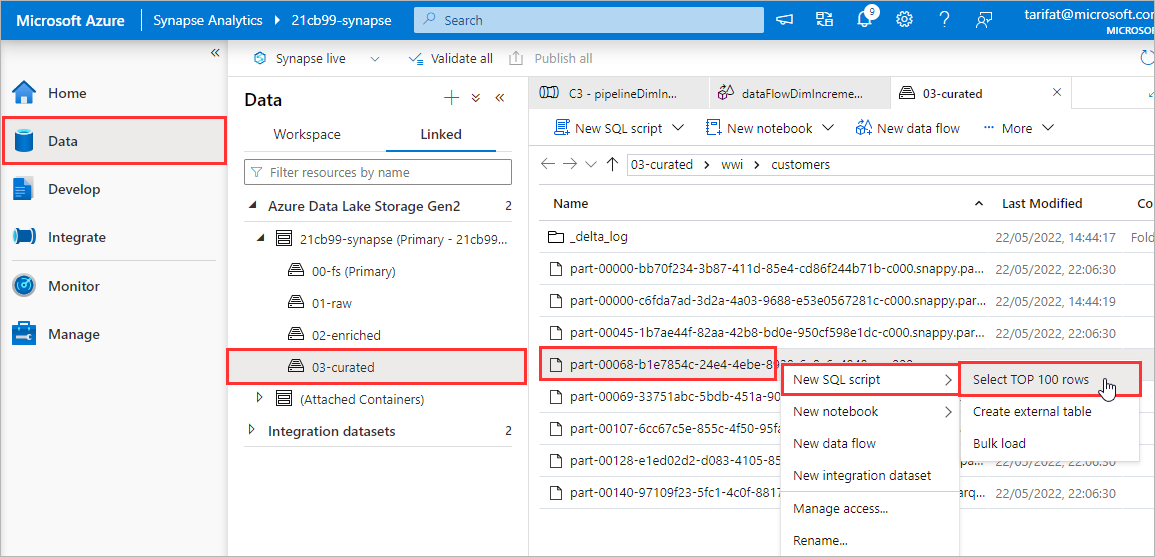
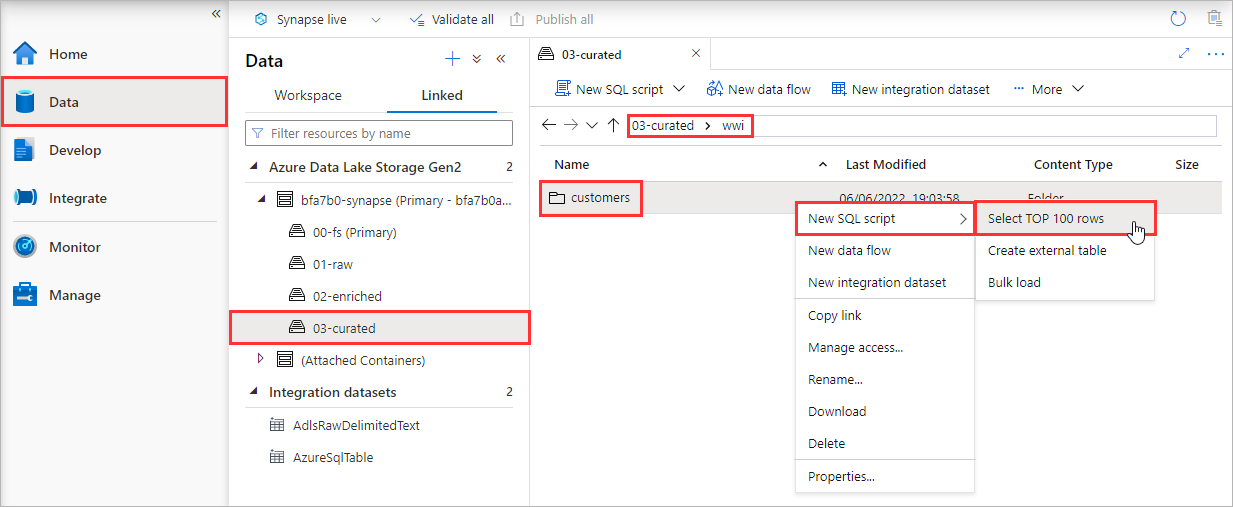
module01c

diff --git a/modules/module01c.md b/modules/module01c.md
@@ -2,6 +2,10 @@
 
 [< Previous Module](../modules/module01b.md) - **[Home](../README.md)** - [Next Module >](../modules/module01d.md)
 
+## :stopwatch: Estimated Duration
+
+45 minutes
+
 ## :thinking: Prerequisites
 
 - [x] Lab environment deployed
@@ -188,7 +192,7 @@ In this module, we will be creating a pipeline to incrementally load the Custome
 
 ## 2. Data flow (Source - rawCustomer)
 
-In this step, we start with a source transformation that will reference a delimited text file (CSV) in the raw layer of our data lake. The data flow will include a file name parameter, this will allow the pipeline to dynamically pass a file name at runtime.
+In this step, we start with a **source** transformation that will reference a delimited text file (CSV) in the raw layer of our data lake. The data flow will include a file name parameter, this will allow the pipeline to dynamically pass a file name at runtime.
 
 1. Enable **Data flow debug**
 
@@ -323,7 +327,7 @@ In this step, we will add a second source transformation that will reference the
 
 ## 4. Data flow (Filter - activeCustomers)
 
-The Filter transformation allows row filtering based upon a condition. In this step, we will filter the Customers dimension table to only include rows that are active. This is a necessary step as we will eventually compare the new incoming data with the existing active data.
+The [Filter](https://docs.microsoft.com/azure/data-factory/data-flow-filter) transformation allows row filtering based upon a condition. In this step, we will filter the Customers dimension table to only include rows that are active. This is a necessary step as we will eventually compare the new incoming data with the existing active data.
 
 1. Click the **[+]** icon to the right of `dimCustomer`, under **Row modifier** select **Filter**
 
@@ -345,7 +349,7 @@ The Filter transformation allows row filtering based upon a condition. In this s
 
 ## 5. Data flow (Derived column - addHashDim)
 
-The Derived Column transformation allows us to generate new columns and/or modify existing columns. In this step, we are adding a new column called `Hash`. This column is calculated by calling the `md5` function against the same columns that exist in the source stream (i.e. excludes dimension columns such as `CustomerSK`, `IsActive`, `ValidFrom`, and `ValidTo`). The `md5` function returns a 32-character hex string which can be used to calculate a fingerprint for a row. This will be used later in the module to compare against a hash from the new data stream.
+The [Derived Column](https://docs.microsoft.com/azure/data-factory/data-flow-derived-column) transformation allows us to generate new columns and/or modify existing columns. In this step, we are adding a new column called `Hash`. This column is calculated by calling the `md5` function against the same columns that exist in the source stream (i.e. excludes dimension columns such as `CustomerSK`, `IsActive`, `ValidFrom`, and `ValidTo`). The `md5` function returns a 32-character hex string which can be used to calculate a fingerprint for a row. This will be used later in the module to compare against a hash from the new data stream.
 
 1. Click the **[+]** icon to the right of `activeCustomers`, under **Schema modifier** select **Derived Column**
 
@@ -371,7 +375,7 @@ The Derived Column transformation allows us to generate new columns and/or modif
 
 ## 6. Data flow (Aggregate - maxSurrogateKey)
 
-The Aggregate transformation defines aggregations of columns in your data streams. In this step, we are going to use the Aggregate transformation to calculate the max `CustomerSK` value. This will be referenced by our data flow for INSERT operations so that the Customer surrogate key can resume incrementing from the last max value.
+The [Aggregate](https://docs.microsoft.com/azure/data-factory/data-flow-aggregate) transformation defines aggregations of columns in your data streams. In this step, we are going to use the Aggregate transformation to calculate the max `CustomerSK` value. This will be referenced by our data flow for INSERT operations so that the Customer surrogate key can resume incrementing from the last max value.
 
 1. Click the **[+]** icon to the right of `activeCustomers`, under **Multiple inputs/outputs** select **New branch**
 
@@ -405,7 +409,7 @@ The Aggregate transformation defines aggregations of columns in your data stream
 
 ## 7. Data flow (Exists - existingRecords)
 
-The Exists transformation is a row filtering transformation that checks whether your data exists in another source or stream. The output includes all rows in the left stream that exist or don't exist in the right stream. In this step, we are going to return all rows from the left stream (rawCustomer) where the `CustomerID` exists in the right stream (activeCustomers).
+The [Exists](https://docs.microsoft.com/azure/data-factory/data-flow-exists) transformation is a row filtering transformation that checks whether your data exists in another source or stream. The output includes all rows in the left stream that exist or don't exist in the right stream. In this step, we are going to return all rows from the left stream (rawCustomer) where the `CustomerID` **exists** in the right stream (activeCustomers).
 
 1. Click the **[+]** icon to the right of `rawCustomer`, under **Multiple inputs/outputs** select **Exists**
 
@@ -495,7 +499,7 @@ In this step, we are adding a new column called `Hash` to the `existingRecords`.
 
 ## 10. Data flow (Exists - changedRecords)
 
-In this step, we will add a third exists transformation that will return records from the left stream (`addHash`) that **do not exist** in right stream (`addHashDim`) based on the `Hash` field (changed records).
+In this step, we will add a third exists transformation that will return records from the left stream (`addHash`) that **do not exist** in right stream (`addHashDim`) based on the `Hash` field (changed records). This will identify existing customers where one or more customer attributes (e.g. CustomerAddress) has changed.
 
 1. Click the **[+]** icon to the right of `addHash`, under **Multiple inputs/outputs** select **Exists**
 
@@ -525,7 +529,7 @@ In this step, we will add a third exists transformation that will return records
 
 ## 11. Data flow (Union - unionNewActive)
 
-[Union](https://docs.microsoft.com/azure/data-factory/data-flow-union) will combine rows from multiple data streams into one, with the SQL Union of those streams as the new output from the Union transformation. In this step, we will combine data from the incoming stream `changedRecords`, with stream `newRecords`. This will reflect active records (either those customers who exist in the dimension table but have had changes and/or net new customers).
+[Union](https://docs.microsoft.com/azure/data-factory/data-flow-union) will combine rows from multiple data streams into one. In this step, we will combine data from the incoming stream `changedRecords`, with stream `newRecords`. This will reflect active records (either those customers who exist in the dimension table but have had changes and/or net new customers).
 
 1. Click the **[+]** icon to the right of `changedRecords`, under **Multiple inputs/outputs** select **Union**
 
@@ -714,7 +718,7 @@ In this step, we are adding columns `CustomerSK`, `IsActive`, `ValidFrom`, and `
 
 ## 17. Data flow (Exists - obsoleteRecords)
 
-In this step, we will add a fourth exists transformation that will return records from the left stream (`addHashDim`) that **exist** in right stream (`changedRecords`) based on the `CustomerID` field (obsolete records).
+In this step, we will add a fourth exists transformation that will return records from the left stream (`addHashDim`) that **exist** in right stream (`changedRecords`) based on the `CustomerID` field. This will identify the customer records that exist in the Delta Lake table but are now obsolete due to new changes, and therefore will need to be expired (e.g. IsActive = 0) which will be set in a subsequent transformation step.
 
 1. Click the **[+]** icon to the right of `addHashDim`, under **Multiple inputs/outputs** select **Exists**
 
@@ -945,14 +949,19 @@ To test that our pipeline is working correctly, we will trigger a manual run usi
 
     ![ALT](../images/module01c/152.png)
 
-3. Once successful, navigate to the **Data** hub, browse the data lake folder structure under the **Linked tab** to `03-curated/wwi/customers`, right-click one of the parquet files and select **New SQL Script > Select TOP 100 rows**
+3. Once successful, navigate to the **Data** hub, browse the data lake folder structure to `03-curated > wwi`, right-click the folder `customers`, and select **New SQL Script > Select TOP 100 rows**
 
-    ![ALT](../images/module01c/153.png)
+    <!-- ![ALT](../images/module01c/153.png) -->
 
-4. Modify the **OPENROWSET** function to remove the file name from the **BULK** path, change the **FORMAT** to **DELTA**, and click **Run**
+4. Set the **File type** to **Delta format** and click **Apply**
+
+    <!-- ![ALT](../images/module01c/155.png) -->
+
+5. Click **Run**
+
     Note: You will notice there are six records in total (five active, one inactive). Try to alter the SQL query so that you only see active records sorted by CustomerID.
 
-    ![ALT](../images/module01c/154.png)
+    <!-- ![ALT](../images/module01c/154.png) -->
 
 <div align="right"><a href="#module-01c---dimension-table-incremental-load-scd-type-2">↥ back to top</a></div>
 
